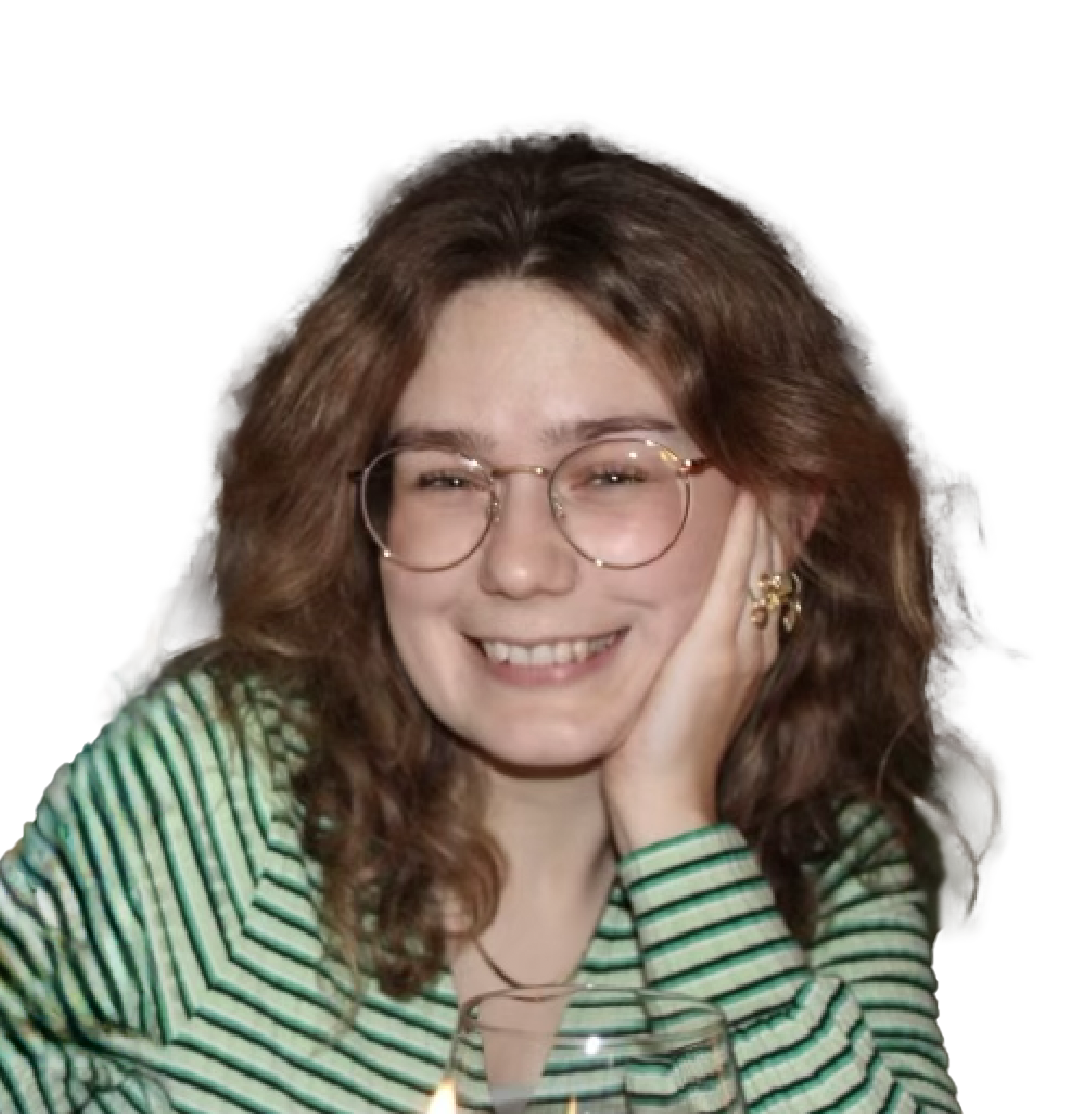
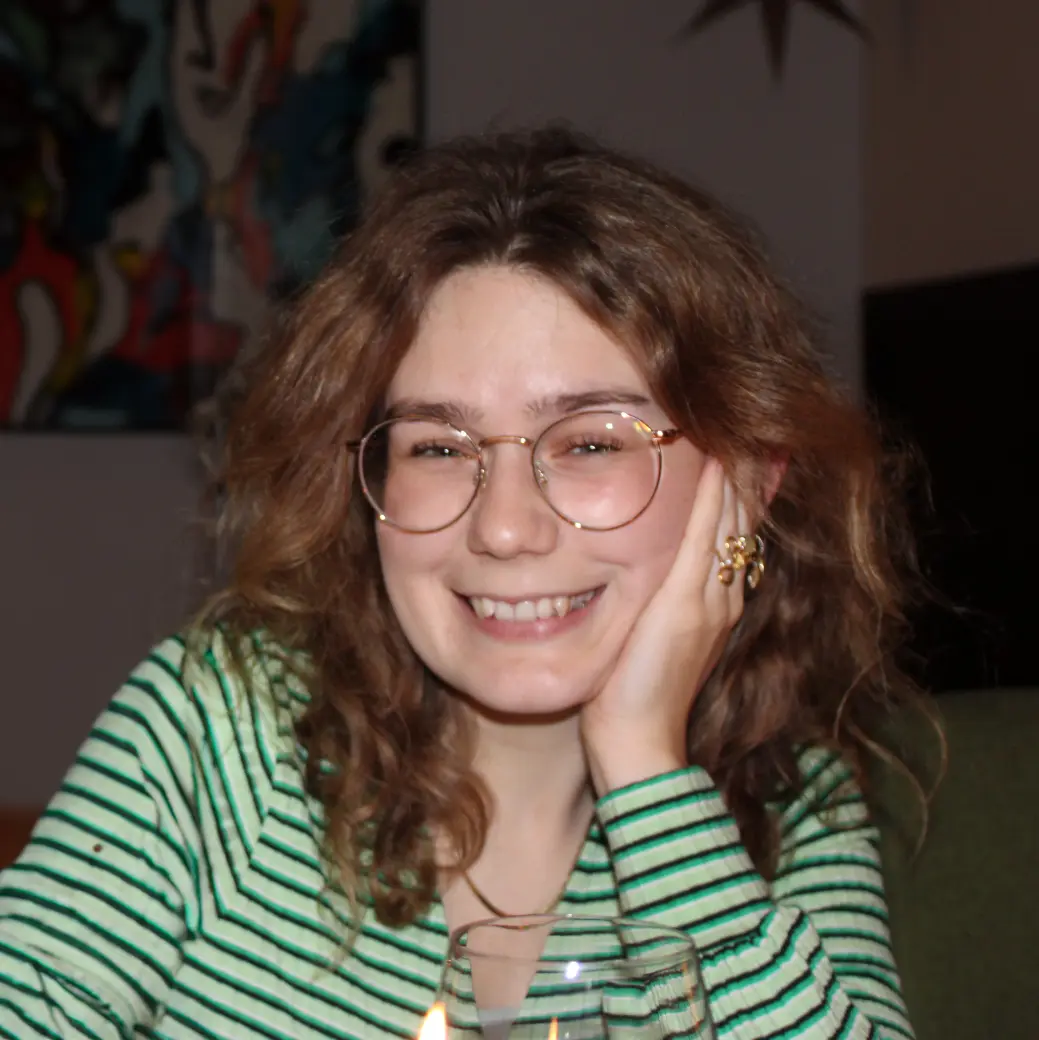
justere billede til om mig siden og giver det en clip-mask

diff --git a/ommig.html b/ommig.html
@@ -42,7 +42,7 @@
         <h1>om mig</h1>
 
         <div class="grid_1-2">
-            <img src="billeder/billede_af_mig.webp" alt="portrætbillede">
+            <img class="mitbillede" src="billeder/billede_af_mig.webp" alt="portrætbillede">
             <div>
                 <h2>kort men godt</h2>
                 <p>Mit navn er <b> Laura Backe</b>. Jeg er en 22-årig multimediedesign-studerende bosat i Valby og er i
@@ -59,7 +59,7 @@
         <div class="grid_1-2">
             <div class="programmer">
                 <h2>Min værktøjskasse</h2>
-                <ul>
+                <ul class="grid_mobil">
                     <li id="illustrator">
                         <p>Illustrator</p>
                     </li>

diff --git a/style.css b/style.css
@@ -414,6 +414,10 @@ h1 {
 
 /* om mig */
 
+.mitbillede {
+  clip-path: circle(50% at 50%);
+}
+
 .programmer li {
   font-family: "Montserrat Alternates", sans-serif;
   font-size: 3cqw;
